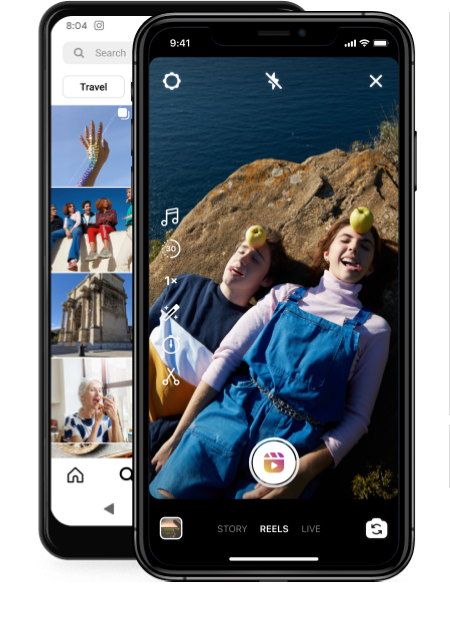
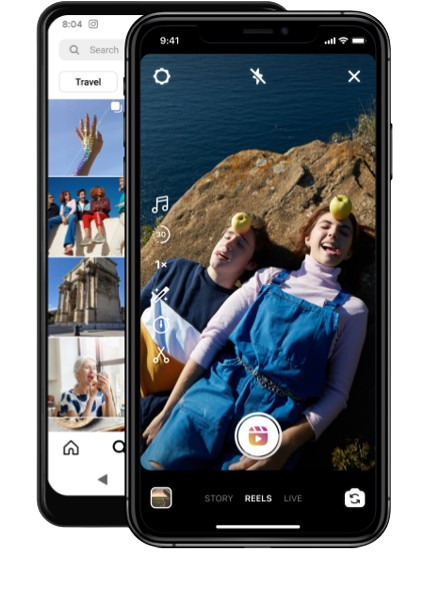
ajustes

diff --git a/index-dark.html b/index-dark.html
@@ -12,7 +12,7 @@
     <div class="main">
         <div class="container">
             <div class="img-left">
-                <img src="img/home-phones-black.png" alt="img-cel-main">
+                <img src="img/img-left.png" alt="img-cel-main">
             </div>
         <div class="form-right">
             <div class="container-login">
